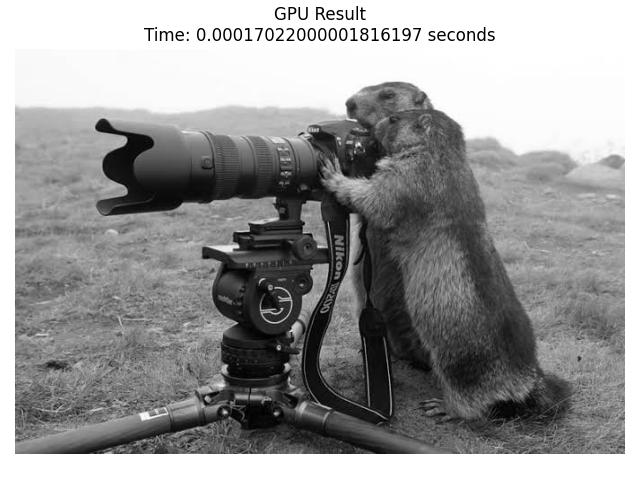
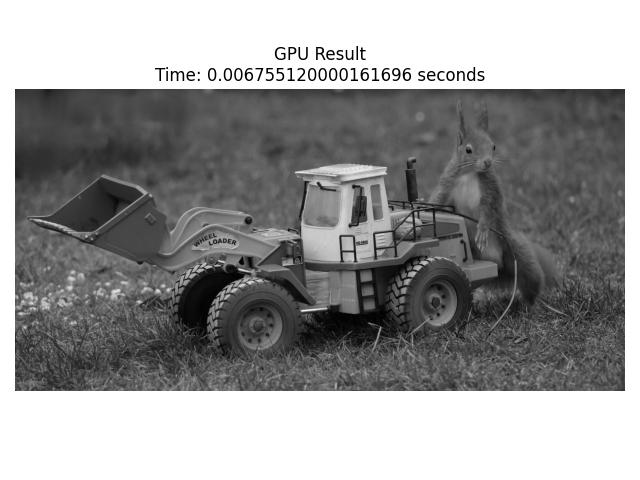
Lab 4: update the code to run with multple different block size, and use a higher res image

diff --git a/Labwork 4/rgb_2_gray.py b/Labwork 4/rgb_2_gray.py
@@ -22,10 +22,9 @@ def rgb2gray_gpu(pixels, gray_pixels):
         gray_pixels[y, x, 1] = gray
         gray_pixels[y, x, 2] = gray
 
-def rgb2gray_gpu_time(rgb, repeats = 5):
+def rgb2gray_gpu_time(rgb, repeats = 5, block_size = (32,32)):
     original_image = preprocessing(rgb)
     height, width, channels = original_image.shape
-    block_size = (32, 32)
     grid_x = (width + block_size[0] - 1) // block_size[0]
     grid_y = (height + block_size[1] - 1) // block_size[1]
     grid_size = (grid_x, grid_y)
@@ -39,7 +38,7 @@ def rgb2gray_gpu_time(rgb, repeats = 5):
     start_time = time.perf_counter()
     for _ in range(repeats):
         rgb2gray_gpu[grid_size, block_size](devScr, devDst)
-    cuda.synchronize()
+        cuda.synchronize()
     end_time = time.perf_counter()
     runtime = (end_time - start_time) / repeats
     print(f"GPU time (block size {block_size}): {runtime} seconds")
@@ -47,11 +46,15 @@ def rgb2gray_gpu_time(rgb, repeats = 5):
     return result, runtime
 
 if __name__ == "__main__":
-    rgb = "images.jpg"    
-    gpu_result_image, gpu_time = rgb2gray_gpu_time(rgb)
-    plt.imshow(gpu_result_image)
-    plt.title(f"GPU Result\nTime: {gpu_time} seconds")
-    plt.axis("off")
-    plt.tight_layout()
-    plt.savefig("result.jpg")
-    plt.show()
+    rgb = "images.jpg"
+    block_sizes = [(8, 8), (16, 16), (32, 32)]
+    for block_size in block_sizes:
+        gpu_result_image, gpu_time = rgb2gray_gpu_time(rgb, block_size=block_size)
+        plt.figure()
+        plt.imshow(gpu_result_image)
+        plt.title(f"GPU Result ({block_size[0]}x{block_size[1]})\n"
+                  f"Time: {gpu_time} seconds")
+        plt.axis("off")
+        plt.tight_layout()
+        plt.savefig(f"result_{block_size[0]}x{block_size[1]}.jpg")
+        plt.close()
